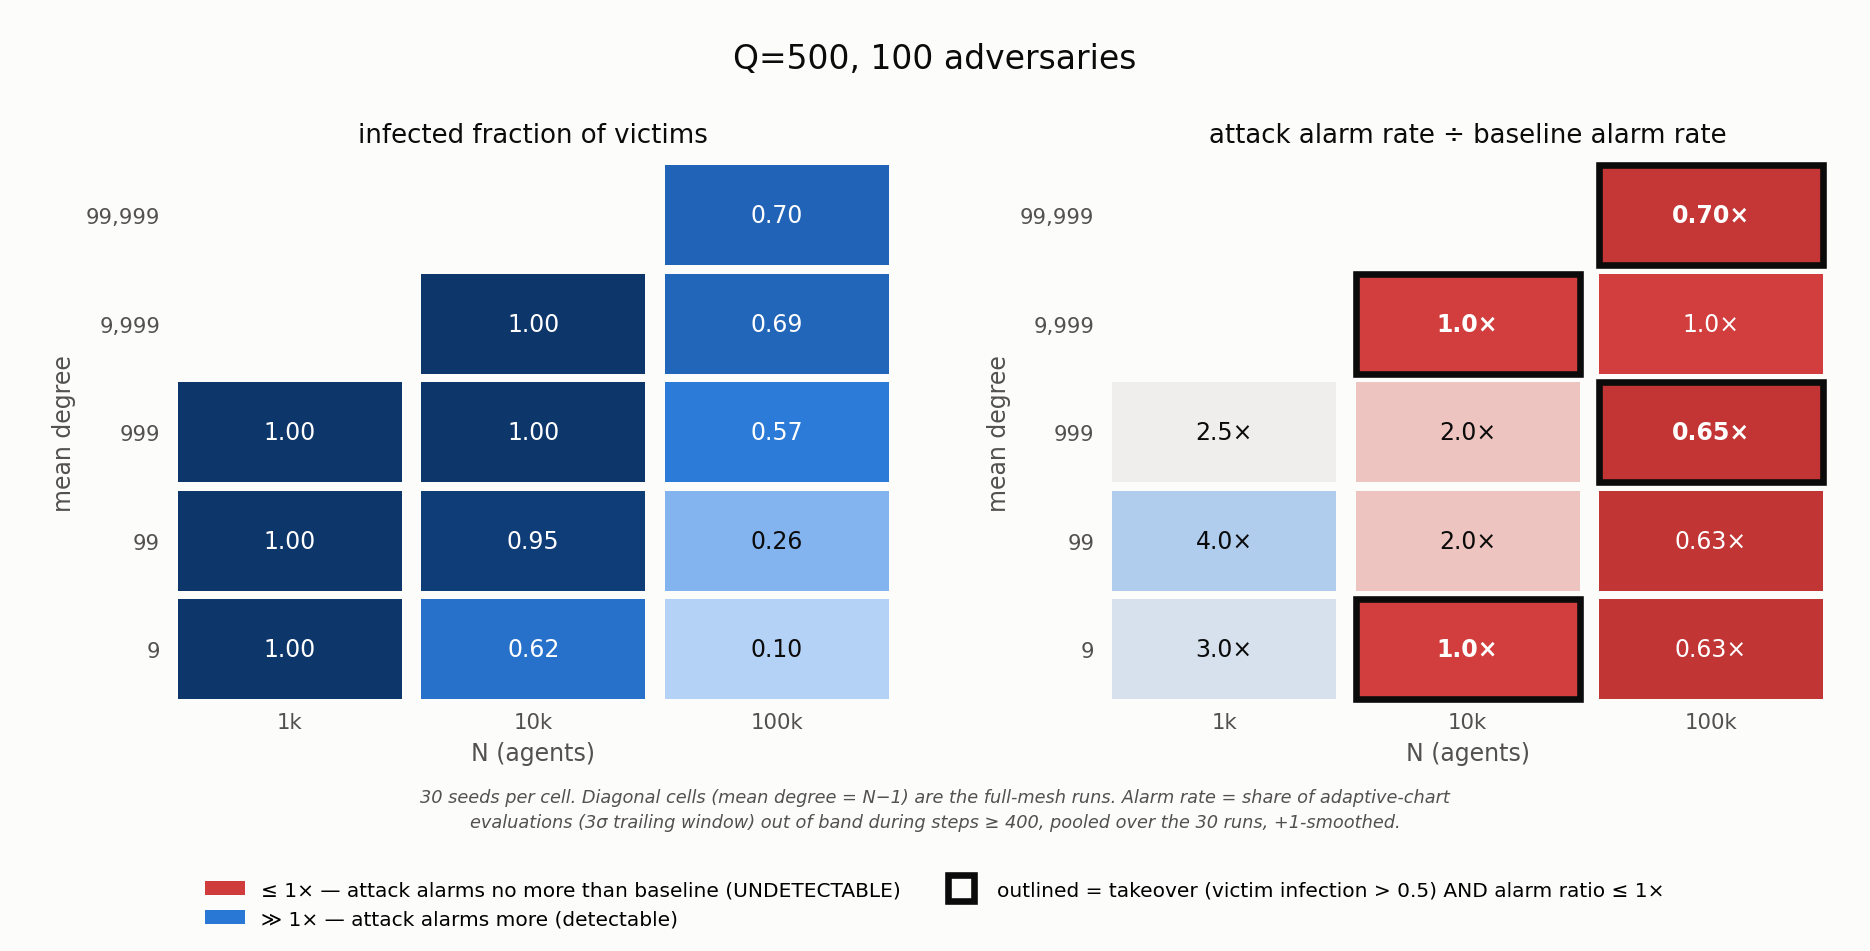
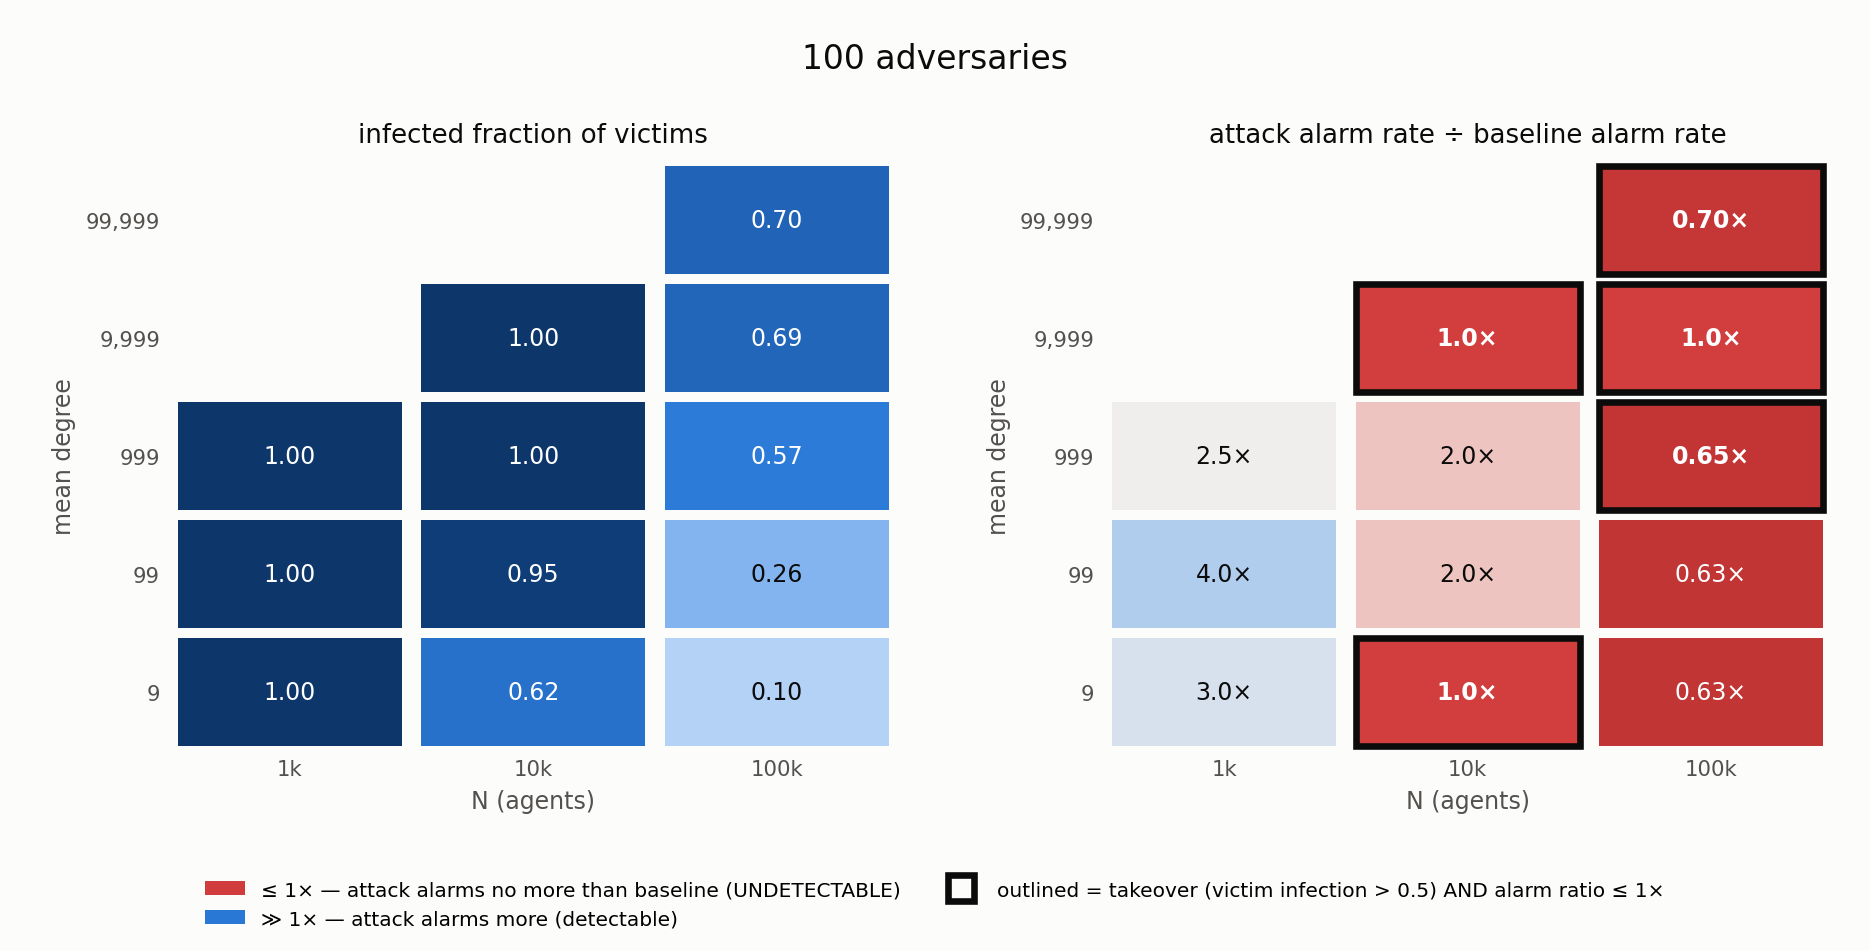
q500_100adv figure: box (100k,9999), drop Q=500 from title, remove caption

diff --git a/experiments/figures/q500_100adv.py b/experiments/figures/q500_100adv.py
@@ -24,7 +24,7 @@ OUT = sys.argv[1] if len(sys.argv) > 1 else os.path.join(HERE, "q500_100adv.png"
 NS = [1000, 10000, 100000]            # x axis (no an100 data at N=100)
 DEGS = [9, 99, 999, 9999, 99999]      # y axis (degree 4 trimmed, as in the 3-col figure)
 FIGSIZE = (11.0, 5.6)                 # wide: two panels side by side
-TITLE = "Q=500, 100 adversaries"
+TITLE = "100 adversaries"
 CELL_FONT, LABEL_FONT, TITLE_FONT = 10, 10, 12
 # -----------------------------------------------------------------------------
 
@@ -52,7 +52,7 @@ cells = {(c["N"], c["degree"]): c for c in data["cells"]}
 seeds = data["seeds"]
 
 fig, (ax, ax2) = plt.subplots(1, 2, figsize=FIGSIZE, facecolor=SURFACE)
-fig.subplots_adjust(left=0.09, right=0.98, top=0.83, bottom=0.26, wspace=0.28)
+fig.subplots_adjust(left=0.09, right=0.98, top=0.83, bottom=0.21, wspace=0.28)
 
 
 def rect(a, x, y, color, outline=False):
@@ -80,8 +80,10 @@ for xi, N in enumerate(NS):
         if e is None or e["ratio"] is None:
             continue
         t = (np.clip(np.log10(e["ratio"]), -LOGLIM, LOGLIM) + LOGLIM) / (2 * LOGLIM)
+        # threshold 1.05, not 1.0: any cell that DISPLAYS as "1.0x" should box —
+        # (100k, 9999) is 1.024 only via +1 smoothing on a dead-even 41v40 split
         taken = e["inf"] is not None and e["inf"] > 0.5
-        blind = taken and e["ratio"] <= 1.0
+        blind = taken and e["ratio"] <= 1.05
         rect(ax2, xi, yi, cmap_div(t), outline=blind)
         dark = t <= .53 or t > .82
         ax2.text(xi + .5, yi + .5, rfmt(e["ratio"]), ha="center", va="center",
@@ -110,10 +112,6 @@ legend = [Patch(facecolor="#d03b3b", label="≤ 1× — attack alarms no more th
                  label="outlined = takeover (victim infection > 0.5) AND alarm ratio ≤ 1×")]
 fig.legend(handles=legend, loc="lower center", ncol=2, frameon=False,
            fontsize=8.5, bbox_to_anchor=(0.5, 0.005))
-fig.text(0.5, 0.130,
-         f"{seeds} seeds per cell. Diagonal cells (mean degree = N−1) are the full-mesh runs. Alarm rate = share of adaptive-chart\n"
-         f"evaluations (3σ trailing window) out of band during steps ≥ 400, pooled over the {seeds} runs, +1-smoothed.",
-         ha="center", fontsize=7.5, color=INK2, style="italic", linespacing=1.5)
 fig.suptitle(TITLE, fontsize=TITLE_FONT + 2, color=INK, y=0.955)
 fig.savefig(OUT, dpi=170, facecolor=SURFACE)
 print(OUT)
